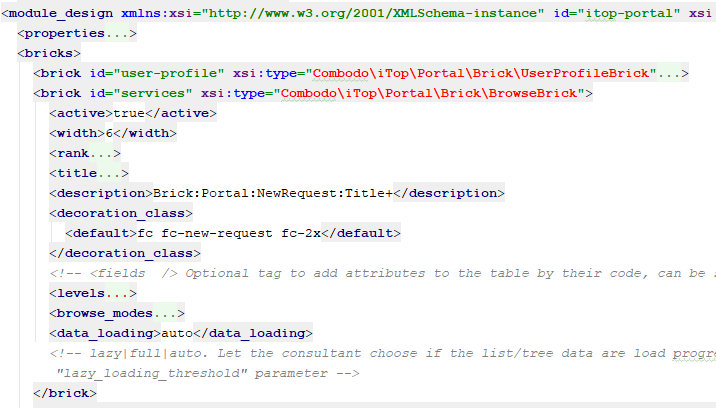
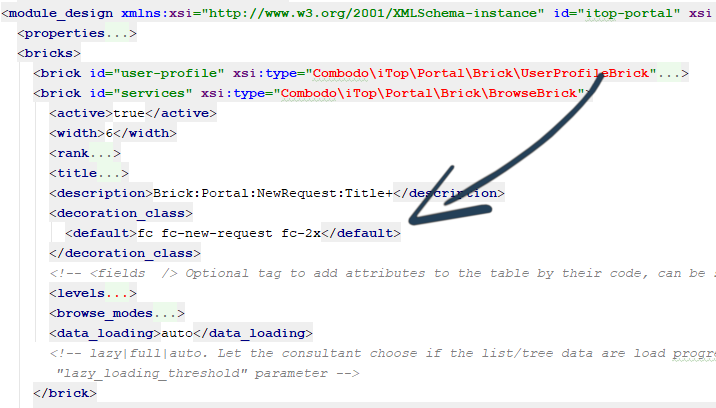
Documentation

Changed region(s): [[0.5531, 0.4118, 0.7067, 0.5588], [0.7067, 0.1765, 0.8603, 0.4118], [0.6145, 0.4118, 0.6453, 0.4412]]

diff --git a/README.md b/README.md
@@ -1,6 +1,3 @@
-# itop-fontawesome5-pack
-Extension for iTop: Use new icon sets for both portal &amp; console.
-
 # iTop extension: molkobain-fontawesome5-pack
 
 ### Description
@@ -14,21 +11,28 @@ Compatible with iTop 2.4+
 ### Installation
 * Unzip the extension
 * Copy the ``dist/molkobain-fontawesome5-pack`` folder under ``<PATH_TO_ITOP>/extensions`` folder of your iTop
-* Run iTop setup & select extension *Portal: Service catalog as mosaic by default*
+* Run iTop setup & select extension *Font Awesome 5*
 
 *Your folders should look like this*
 
 ![Extensions folder](https://raw.githubusercontent.com/Molkobain/itop-fontawesome5-pack/master/docs/mfp-install.PNG)
 
 ### Configuration
+No configuration needed.
+
+### Usage examples
 #### Portal: Change a brick's icon
 Let's say that for example you would like to change the *New request* icon with [this one](https://fontawesome.com/icons/book-open?style=solid). Just alter the portal XML to change the ``/itop_design/module_designs/module_design[@id="<PORTAL_ID>"]/bricks/brick[@id="services"]/decoration_class/default`` tag value with *fas fa-book-open fa-2x*
 
+* XML before *
 ![Before](https://raw.githubusercontent.com/Molkobain/itop-fontawesome5-pack/master/docs/mfp-example-01-01.PNG)
+
+* XML after *
 ![After](https://raw.githubusercontent.com/Molkobain/itop-fontawesome5-pack/master/docs/mfp-example-01-02.PNG)
 
 Run iTop setup and your portal home page should look like this!
 
+* Result *
 ![Extensions folder](https://raw.githubusercontent.com/Molkobain/itop-fontawesome5-pack/master/docs/mfp-example-01-03.PNG)
 
 ### Licensing
